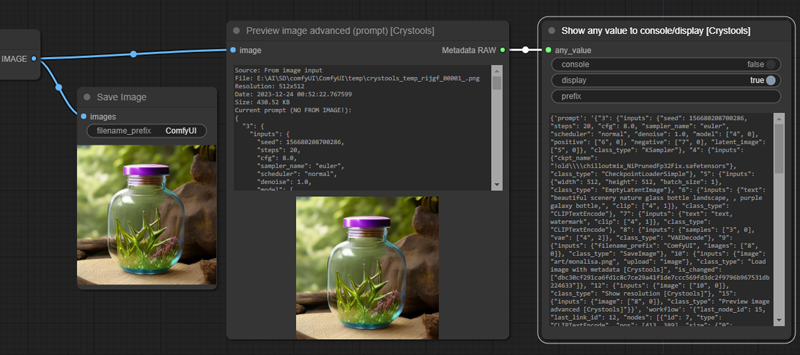
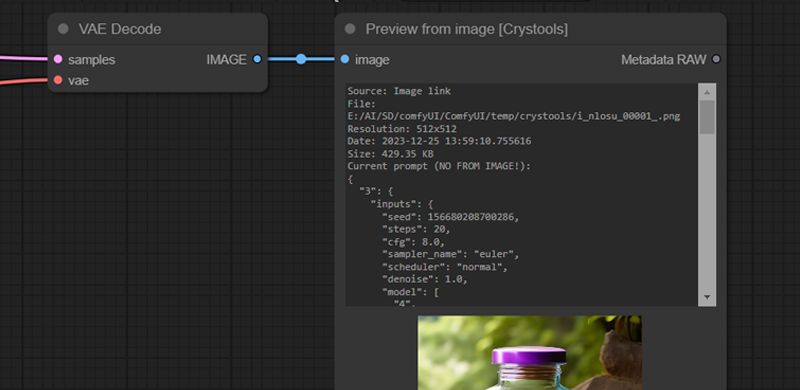
doc updated

diff --git a/nodes/_names.py b/nodes/_names.py
@@ -47,9 +47,9 @@ class CLASSES(Enum):
     CIMAGE_SHOW_RESOLUTION_NAME = "Show resolution [Crystools]"
     CIMAGE_SHOW_RESOLUTION_DESC = "Show resolution [Crystools]"
     CIMAGE_PREVIEW_IMAGE_NAME = "Preview from image [Crystools]"
-    CIMAGE_PREVIEW_IMAGE_DESC = "Preview from image (show prompt) [Crystools]"
+    CIMAGE_PREVIEW_IMAGE_DESC = "Preview from image [Crystools]"
     CIMAGE_PREVIEW_METADATA_NAME = "Preview from metadata [Crystools]"
-    CIMAGE_PREVIEW_METADATA_DESC = "Preview from metadata (show prompt) [Crystools]"
+    CIMAGE_PREVIEW_METADATA_DESC = "Preview from metadata [Crystools]"
 
     CMETADATA_EXTRACTOR_NAME = "Metadata extractor [Crystools]"
     CMETADATA_EXTRACTOR_DESC = "Metadata extractor [Crystools]"

diff --git a/nodes/image.py b/nodes/image.py
@@ -249,7 +249,7 @@ class CImageLoadWithMetadata:
 
     CATEGORY = CATEGORY.MAIN.value + CATEGORY.IMAGE.value
     RETURN_TYPES = ("IMAGE", "MASK", "JSON", "METADATA_RAW")
-    RETURN_NAMES = ("image", "mask", "prompt", "Metadata RAW (optional)")
+    RETURN_NAMES = ("image", "mask", "prompt", "Metadata RAW")
     OUTPUT_NODE = True
 
     FUNCTION = "execute"

diff --git a/README.md b/README.md
@@ -45,14 +45,17 @@ A set of nodes with primitive values to use in your prompts.
 
 
 ## List
-### Nodes: List of strings, List of any
-
-A set of nodes with list of values (any or strings/texts)  
-With strings you can concatenate them  
-
-![Lists](./docs/lists.png)
+A set of nodes with list of values (any or strings/texts) for any propose (news coming soon!).
 
 > **Important:** You can use with others nodes like "Show any" to see the values of the list
+
+### Node: List of strings
+Even you can concatenate them
+
+![Lists](./docs/lists-string.png)
+
+### Node: List of any
+You can concatenate any value (it will try to convert to string and show the value)
 
 ![Lists](./docs/lists-any.png)
 
@@ -75,20 +78,25 @@ A maximum of 6 **optional** links is supported.
 >- "RecursionError", It's crucial to note that the flow of links **must be in the same direction**, and they cannot be mixed with other flows that use the result of this one. Otherwise, this may lead to recursion and block the server (you need to restart it!)
  
 Typical example:
+
 ![Pipes](./docs/pipe-0.png)
 
 With pipes:
+
 ![Pipes](./docs/pipe-1.png)
 
 Editing pipes:
+
 ![Pipes](./docs/pipe-2.png)
 
 Bad example with "RecursionError: maximum recursion depth exceeded":
+
 ![Pipes](./docs/pipe-3.png)
 
 ## Image
-### Load image with metadata
-This node is the same as the default one, but it adds three options: Prompt, Metadata, and subfolders of the "input" folder.
+### Node: Load image with metadata
+This node is the same as the default one, but it adds three features: Prompt, Metadata, and supports **subfolders** of the "input" folder.
+
 ![Load image with metadata](./docs/image-load.png)
 
 ><details>
@@ -99,33 +107,49 @@ This node is the same as the default one, but it adds three options: Prompt, Met
 >  - Metadata RAW: The metadata raw of the image (full workflow) as string
 ></details>
 
-The subfolders support is by: [comfyui-imagesubfolders](https://github.com/catscandrive/comfyui-imagesubfolders)
+**Note:** The subfolders support is by: [comfyui-imagesubfolders](https://github.com/catscandrive/comfyui-imagesubfolders)
 
-### Show resolution
+### Node: Show resolution
 This node is used to show the resolution of the image.
 
 > Can be used with any image link.
 
 ![Show resolution](./docs/image-resolution.png)
 
-### Preview image advanced (prompt)
-This node is used to preview the image with the current prompt and additional data.  
+### Node: Preview from image
+This node is used to preview the image with the **current prompt** and additional features.  
 
-- Additional feature: This node has an output as metadata raw, **you can use to compare with others!** (see below)
-- Additional data: Shows the filename, resolution, datetime and size with **the current prompt**
+![Preview from image](./docs/image-preview.png)
 
-![Preview image advanced](./docs/image-preview.png)
+**Feature:** It supports cache (shows as "CACHED"), so you can disconnect the node and still see the image and data, so you can use it to compare with others!
 
-> Important:
-> - If you want to read the metadata of the image, you need to use the "Load image with metadata" node and output "metadata RAW".
-> - To do a preview it is necessary save it first on temporal folder, and the data shown is from the temporal image, not the original one.
+![Preview from image](./docs/image-preview-diff.png)  
+You can see the seed, steps, and cfg were changed
 
+**Notes:**  
+- Additional feature: This node has an output as metadata raw, **you can use to compare with others!** (see [Metadata Comparator](#node-metadata-comparator))
+- Additional data: Shows the filename, resolution, datetime and size with **the current prompt, not the original one!** (see detail).
+><details>
+>  <summary><i>Sample of notes</i></summary>
+>
+> All the data even the prompt shown is from the temporal image, **not the original one!**
+![Preview from image from load image](./docs/image-preview-prompt.png)
+></details>
+
+> **Important:**
+> - If you want to read the metadata of the image, you need to use the [Load image with metadata](#node-load-image-with-metadata) and use the output "metadata RAW" not image.
+> - To do a preview it is necessary save it first on temporal folder, and the data shown is from the temporal image, **not the original one**.
+
+### Node: Preview from metadata
+This node is used to preview the image from the metadata and shows additional data (all around this one).  
  
+![Preview from metadata](./docs/image-preview-metadata.png)
+
 ## Utils
-### Metadata extractor
-### Metadata comparator
-### Json comparator
-### Stat system
+### Node: Metadata extractor
+### Node: Metadata comparator
+### Node: Json comparator
+### Node: Stat system
 
 More info and works:
 ig
